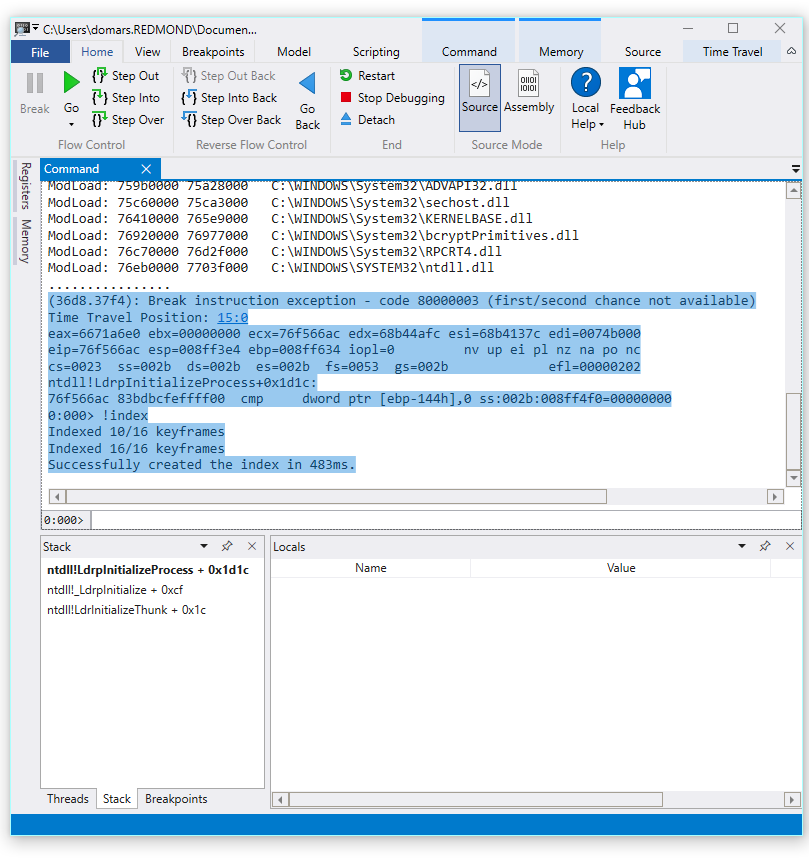
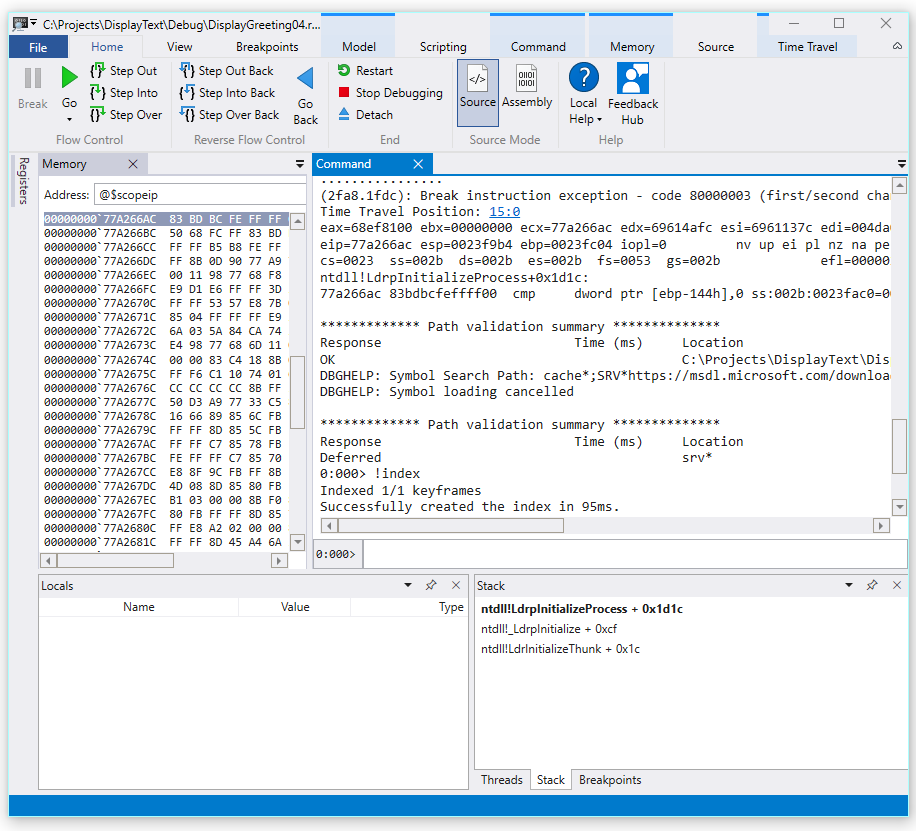
Making changes to TTD Walkthrough

Changed region(s): [[0.0, 0.0, 1.0, 0.9928], [0.9271, 0.6919, 0.958, 0.722], [0.309, 0.722, 0.3399, 0.7521]]

diff --git a/windows-driver-docs-pr/debugger/time-travel-debugging-walkthrough.md b/windows-driver-docs-pr/debugger/time-travel-debugging-walkthrough.md
@@ -135,9 +135,6 @@ The lab has the following three sections.
 
     Double click on the exe file to run the sample app.
 
-    TBD TBD TBD - update screen shot - left align
-
-
     ![Faulting app dialog box](images/ttd-time-travel-walkthrough-faulting-app-dialog-box.png) 
 
 
@@ -159,7 +156,7 @@ To launch the sample app and record a TTD trace, follow these steps. For general
 
 2. In WinDbg Preview, select **File** > **Start debugging** > **Launch executable (advanced)**.
 
-3. Enter the path to the user mode executable that you wish to record or select **Browse** to navigate to the executable. For information about working with the Launch Executable menu in WinDbg Preview, see [WinDbg Preview - Start a user-mode session](windbg-user-mode-preview.md).
+3. Enter the path to the user mode executable that you wish to record or select **Browse** to navigate to the executable. For information about working with the launch executable menu in WinDbg Preview, see [WinDbg Preview - Start a user-mode session](windbg-user-mode-preview.md).
 
 
     ![Screen shot of WinDbg Preview showing start recording checkbox in launch executable (advanced) screen](images/ttd-time-travel-walkthrough-recording-app.png)
@@ -175,15 +172,14 @@ To launch the sample app and record a TTD trace, follow these steps. For general
 
 8. The program crashes and the trace file will be closed and written out to disk. 
 
-   ![Screen shot of WinDbg Preview showing output with 10/16 keyframes indexed](images/ttd-time-travel-walkthrough-windbg-indexed-frames.png)
+   ![Screen shot of WinDbg Preview showing output with 1/1 keyframes indexed](images/ttd-time-travel-walkthrough-windbg-indexed-frames.png)
 
 9. The debugger will automatically open the trace file and index it. Indexing os a process that enables efficient debugging of the trace file. This indexing process will take longer for larger trace files.
 
     ```
     0:000> !index
-    Indexed 10/15 keyframes
-    Indexed 15/15 keyframes
-    Successfully created the index in 525ms.
+    Indexed 1/1 keyframes
+    Successfully created the index in 95ms.
      ```
    
    > [!NOTE]
@@ -216,20 +212,22 @@ In the next section of this lab we will analyze the trace file to locate the iss
     .srcpath C:\Projects\DisplayGreeting\DisplayGreeting
     ```
 
-3.  On the WinDbg Preview ribbon, select **Source** and **Open Source File**. Locate the DisplayGreeting.cpp file and open it.
+3. To be able to view the state of the stack and local variables, on the WinDbg Preview ribbon, select **View** and **Locals** and **View** and **Stack**. Organize the windows to allow you to view them, the source code and the command windows at the same time.
+
+4.  On the WinDbg Preview ribbon, select **Source** and **Open Source File**. Locate the DisplayGreeting.cpp file and open it.
 
 **Examine the exception**
 
 1. When the trace file was loaded it displays information that an exception occurred. 
 
     ```
-    (2b2c.2bbc): Break instruction exception - code 80000003 (first/second chance not available)
+    2fa8.1fdc): Break instruction exception - code 80000003 (first/second chance not available)
     Time Travel Position: 15:0
-    eax=662ea6e0 ebx=00000000 ecx=76f566ac edx=68fa4afc esi=68fa137c edi=0116b000
-    eip=76f566ac esp=012ff668 ebp=012ff8b8 iopl=0         nv up ei pl nz na po nc
-    cs=0023  ss=002b  ds=002b  es=002b  fs=0053  gs=002b             efl=00000202
+    eax=68ef8100 ebx=00000000 ecx=77a266ac edx=69614afc esi=6961137c edi=004da000
+    eip=77a266ac esp=0023f9b4 ebp=0023fc04 iopl=0         nv up ei pl nz na pe nc
+    cs=0023  ss=002b  ds=002b  es=002b  fs=0053  gs=002b             efl=00000206
     ntdll!LdrpInitializeProcess+0x1d1c:
-    76f566ac 83bdbcfeffff00  cmp     dword ptr [ebp-144h],0 ss:002b:012ff774=00000000
+    77a266ac 83bdbcfeffff00  cmp     dword ptr [ebp-144h],0 ss:002b:0023fac0=00000000
     ```
 2. Use the dx command to list all of the events in the recording. The exception event is listed in the events.
 
@@ -240,88 +238,110 @@ In the next section of this lab we will analyze the trace file to locate the iss
     [0x2d]           : Exception at 9BDC:0
     [0x2e]           : Thread terminated at 9C43:0
     ...
+    
     ```
 
 3. Click on the Exception event to display information about that TTD event. 
 
     ```
-    0:000> dx -r1 @$curprocess.TTD.Events[45]
-    @$curprocess.TTD.Events[45]                 : Exception at 9E0D:0
-    Type             : Exception
-    Position         : 9E0D:0 [Time Travel]
-    Exception        : Exception of type Hardware at PC: 0XC42142
+    0:000> dx -r1 @$curprocess.TTD.Events[17]
+    @$curprocess.TTD.Events[17]                 : Exception at 68:0
+        Type             : Exception
+        Position         : 68:0 [Time Travel]
+        Exception        : Exception of type Hardware at PC: 0X540020
     ```
 
-4. Click on the [Time Travel] link to move to that position.
+
+4. Click on the Exception field to further drill down on the exception data. 
 
     ```
-    0:000> dx @$curprocess.TTD.Events[45].Position.SeekTo()
-    Setting position: 9E56:0
-    @$curprocess.TTD.Events[45].Position.SeekTo()
+    0:000> dx -r1 @$curprocess.TTD.Events[17].Exception
+    @$curprocess.TTD.Events[17].Exception                 : Exception of type Hardware at PC: 0X540020
+        Position         : 68:0 [Time Travel]
+        Type             : Hardware
+        ProgramCounter   : 0x540020
+        Code             : 0xc0000005
+        Flags            : 0x0
+        RecordAddress    : 0x0
+    ```
 
-    ...
+   The exception data indicates that this is a Hardware fault thrown by the CPU. It also provides the exception code of 0xc0000005 that indicates that this is an access violation. This is typically indicates that we were attempting to write to memory that we don't have access to.
 
-    (a2c.1278): Break instruction exception - code 80000003 (first/second chance not available)
-    Time Travel Position: 9E56:0
-    eax=00000001 ebx=002b1000 ecx=f5c607b2 edx=00000004 esi=001bf7e0 edi=001bf8d0
-    eip=68cd2142 esp=001bf778 ebp=001bf7b8 iopl=0         nv up ei pl zr na pe nc
+5. Click on the [Time Travel] link in the exception event to move to that position in the trace.
+
+    ```
+    0:000> dx @$curprocess.TTD.Events[17].Exception.Position.SeekTo()
+    Setting position: 68:0
+
+    @$curprocess.TTD.Events[17].Exception.Position.SeekTo()
+    (16c8.1f28): Break instruction exception - code 80000003 (first/second chance not available)
+    Time Travel Position: 68:0
+    eax=00000000 ebx=00cf8000 ecx=99da9203 edx=69cf1a6c esi=00191046 edi=00191046
+    eip=00540020 esp=00effe4c ebp=00520055 iopl=0         nv up ei pl zr na pe nc
     cs=0023  ss=002b  ds=002b  es=002b  fs=0053  gs=002b             efl=00000246
-    ucrtbased!common_tcscpy_s<wchar_t>+0x52:
-    68cd2142 cc              int     3
+    00540020 ??              
+    ```
+    
+    Of note is that the stack and base pointer are pointing to two very differnet addresses
+
+    ```
+    esp=00effe4c ebp=00520055
     ```
 
+    This could indicate that stack corruption - possibly a function returned and then corrupted the stack. The goal is to get back to before the CPU state was corrupted and see if we can determine when the stack corruption occurred.
 
 
 **Examine the local variables and set a code breakpoint**
 
-1.  Use the **dv** command to display the current local variables in memory.
-
-    ```
-    0:000> dv
-      _Expr_val = 0n0
-    destination = 0x00000000 ""
-    size_in_elements = 0xf
-    source = 0x00d475d0 "Message text to display goes here"
-    available = 0xcccccccc
-    destination_it = 0xcccccccc "--- memory read error at address 0xcccccccc ---"
-    source_it = 0xcccccccc "--- memory read error at address 0xcccccccc ---"
-    ```
-
-    The output shows that there is likely a problem with the destination_it and source\_it.
-
-2. Looking at our code, it looks like the exception may be caused by the bad parameters being passed to the wcscpy_s in this line of code.
-
-    ```
-    wcscpy_s(buffer, size, message);
-    ```
-
-3. To investigate further we will set a breakpoint by clicking on the wcscpy_s line in the source window.
-
-    ![Screen shot of source Window showing breakpoint set on wcscpy_s](images/ttd-time-travel-walkthrough-source-window-breakpoint.png)
+At the point of failure it is common to end up a fews steps after the true cause in error handling code. WIth time travel we can go back an instruction at a time to locate investigate the true cause.
 
 
-4. Use g- to travel back until the breakpoint is hit.
+1. From the **Home** ribbon use the  **Step Into Back** command to step back three instructions. As you do this, continue to examine the stack and memory windows.
 
-    ```
-    Breakpoint 0 hit
-    Time Travel Position: 5B:AF
-    eax=0000000f ebx=00c20000 ecx=00000000 edx=00000000 esi=013a1046 edi=00effa60
-    eip=013a17c1 esp=00eff970 ebp=00effa60 iopl=0         nv up ei pl nz na po nc
-    cs=0023  ss=002b  ds=002b  es=002b  fs=0053  gs=002b             efl=00000202
-    DisplayGreeting!DisplayGreeting+0x41:
-    013a17c1 8bf4            mov     esi,esp
-    ```
+The command window will display the time travel postion and the registers as you step back three instructions.
 
-5. Use the **dv** command to display the current local variables in memory.
+```
+0:000> t-
+Time Travel Position: 67:40
+eax=00000000 ebx=00cf8000 ecx=99da9203 edx=69cf1a6c esi=00191046 edi=00191046
+eip=00540020 esp=00effe4c ebp=00520055 iopl=0         nv up ei pl zr na pe nc
+cs=0023  ss=002b  ds=002b  es=002b  fs=0053  gs=002b             efl=00000246
+00540020 ??              ???
 
-    ```
-    0:000> dv
-         buffer = 0x00000000 ""
-           size = 0xf
-        message = 0x00d475d0 "Message text to display goes here"
-    ```
+0:000> t-
+Time Travel Position: 67:3F
+eax=00000000 ebx=00cf8000 ecx=99da9203 edx=69cf1a6c esi=00191046 edi=00191046
+eip=0019193d esp=00effe48 ebp=00520055 iopl=0         nv up ei pl zr na pe nc
+cs=0023  ss=002b  ds=002b  es=002b  fs=0053  gs=002b             efl=00000246
+DisplayGreeting!main+0x4d:
+0019193d c3    
 
-6. Looking at the value of *size* it is 0xf - 15 and our string looks to be 32 in length, so this looks like the reason that the wscpy is failing. But how did *size* get set to 15? To answer that question, we will set a break on memory access breakpoint. 
+0:000> t-
+Time Travel Position: 67:39
+eax=0000004c ebx=00cf8000 ecx=99da9203 edx=69cf1a6c esi=00191046 edi=00191046
+eip=00191935 esp=00effd94 ebp=00effe44 iopl=0         nv up ei pl nz ac po nc
+cs=0023  ss=002b  ds=002b  es=002b  fs=0053  gs=002b             efl=00000212
+DisplayGreeting!main+0x45:
+```
+
+2. At this point in the trace our  stack and base pointerhave values that make more sense, so it appears that we have getting closer to the point in the code where the corruption occurred.
+
+```
+esp=00effd94 ebp=00effe44
+```
+
+Also of interest is that the locals window contains values from our target app and the source code window is heighlighting the line of code that was being executed at this point in the trace. TBD TBD TBD - Or has just executed?
+
+   ![Screen shot of WinDbg Preview showing locals windows with memory ascii output and source code window](images/ttd-time-travel-walkthrough-locals-window.png)
+
+3. To further investigate, we can open up a memory window to view the contents near the base pointer memory address of *0x00effe44*.
+
+4. To display the associated ASCII characters, from the memory ribbon, select **Text** and then **ASCII**
+
+   ![Screen shot of WinDbg Preview showing memory ascii output and source code window](images/ttd-time-travel-walkthrough-memory-ascii.png)
+
+5. Instead of the the base pointer pointing to an instruction it is pointing to our message text. So something is not right here, this may be close to the point in time that we have corrupted the stack. To further investigate we will set a breakpoint. 
+
 
     > [!NOTE]
     > In this very small sample it would be pretty easy to just look in the code, but if there are hundreds of lines of code and dozens of subroutines the techniques described here can be used to decrease the time necessary to locate the issue.
@@ -370,28 +390,20 @@ ba <access> <size> <address> {options}
 Note that you can only set four data breakpoints at any given time and it is up to you to make sure that you are aligning your data correctly or you won’t trigger the breakpoint (words must end in addresses divisible by 2, dwords must be divisible by 4, and quadwords by 0 or 8).
 
 
-**Set the break on access breakpoint for the *size* variable**    
+**Set the break on memory access breakpoint for the base pointer**    
 
-1.  Use the **dx** command to examine the symbols associated with *size*. 
-
-    ```
-    0:000> dx &size
-    0053fdd4          size = 0xf
-    ```
-
-    In this trace *size* is located in memory at address 0x0053fdd4. 
-
-
-2.  First clear the existing breakpoints, then set the memory access breakpoint with the **ba** command using the address we want to monitor. Lastly use **bl** to list the breakpoints to confirm they are set as intended.
+1.  At this point in the trace we would like to set a breakpoint on write memory access to base pointer - ebp which in our example is 00effe44. To do this use the **ba** command using the address we want to monitor. We want to monitor writes for four bytes, so we specify w4. 
 
     ```
-    0:000> bc *
-    0:000> ba w4 0053fdd4
-    0:000> bl
-      0 e Disable Clear  0053fdd4 w 4 0001 (0001)  0:**** 
+    0:000> ba w4 00effe44
     ```
 
-3.  Use g- command to travel back in time until the breakpoint is hit.
+2. Select **View** and then **Breakpoints** to confirm they are set as intended.
+
+   ![Screen shot of WinDbg Preview showing memory ascii output and source code window](images/ttd-time-travel-walkthrough-view-breakpoints.png)
+
+
+3.  From the Home menue, select **Go Back**  to travel back in time until the breakpoint is hit.
 
     ```
     0:000> g-
@@ -404,14 +416,19 @@ Note that you can only set four data breakpoints at any given time and it is up 
     00d4174a c745e000000000  mov     dword ptr [ebp-20h],0 ss:002b:0053fdc8=cccccccc
     ```
 
-4. Use the **dv** command to display the current local variables in memory.
 
-    ```
-    0:000> dv
-          buffer = 0x00000000 ""
-            size = 0xf
-         message = 0x00d475d0 "Message text to display goes here"
-    ```
+4. At this point we can examine the program stack to see what code is active. From the **View** ribbon select **Stack**. 
+
+
+   ![Screen shot of WinDbg Preview stack window](images/ttd-time-travel-walkthrough-stack-window.png)
+
+
+The stack shows that that Greeting!main calls Greeting!GetCppConGreeting.
+
+If we look at the Locals window we can see that the *message* variable has only part of the message, while the buffer has oonly part of the message. 
+
+   ![Screen shot of WinDbg Preview locals window](images/ttd-time-travel-walkthrough-locals-window.png)
+
 
 5. Single step backwards until the faulting code in question comes into scope. In this case, we can use p- command to travel back one step as the breakpoint leaves us one step after the code of interest has executed.
 
@@ -507,6 +524,41 @@ Note that you can only set four data breakpoints at any given time and it is up 
     // ToDo Implement String size - for now all supported strings are 15.
        int buffsize = 15;
     ```
+
+
+**TBD TBD TBD**
+
+Keep any of this?
+
+
+3. To investigate further we will set a breakpoint by clicking on the wcscpy_s line in the source window.
+
+    ![Screen shot of source Window showing breakpoint set on wcscpy_s](images/ttd-time-travel-walkthrough-source-window-breakpoint.png)
+
+
+4. Use g- to travel back until the breakpoint is hit.
+
+    ```
+    Breakpoint 0 hit
+    Time Travel Position: 5B:AF
+    eax=0000000f ebx=00c20000 ecx=00000000 edx=00000000 esi=013a1046 edi=00effa60
+    eip=013a17c1 esp=00eff970 ebp=00effa60 iopl=0         nv up ei pl nz na po nc
+    cs=0023  ss=002b  ds=002b  es=002b  fs=0053  gs=002b             efl=00000202
+    DisplayGreeting!DisplayGreeting+0x41:
+    013a17c1 8bf4            mov     esi,esp
+    ```
+
+5. Use the **dv** command to display the current local variables in memory.
+
+    ```
+    0:000> dv
+         buffer = 0x00000000 ""
+           size = 0xf
+        message = 0x00d475d0 "Message text to display goes here"
+    ```
+
+6. Looking at the value of *size* it is 0xf - 15 and our string looks to be 32 in length, so this looks like the reason that the wscpy is failing. But how did *size* get set to 15? To answer that question, we will set a break on memory access breakpoint. 
+
 
 
 **Use the TTD.Memory objects to view memory access**    
